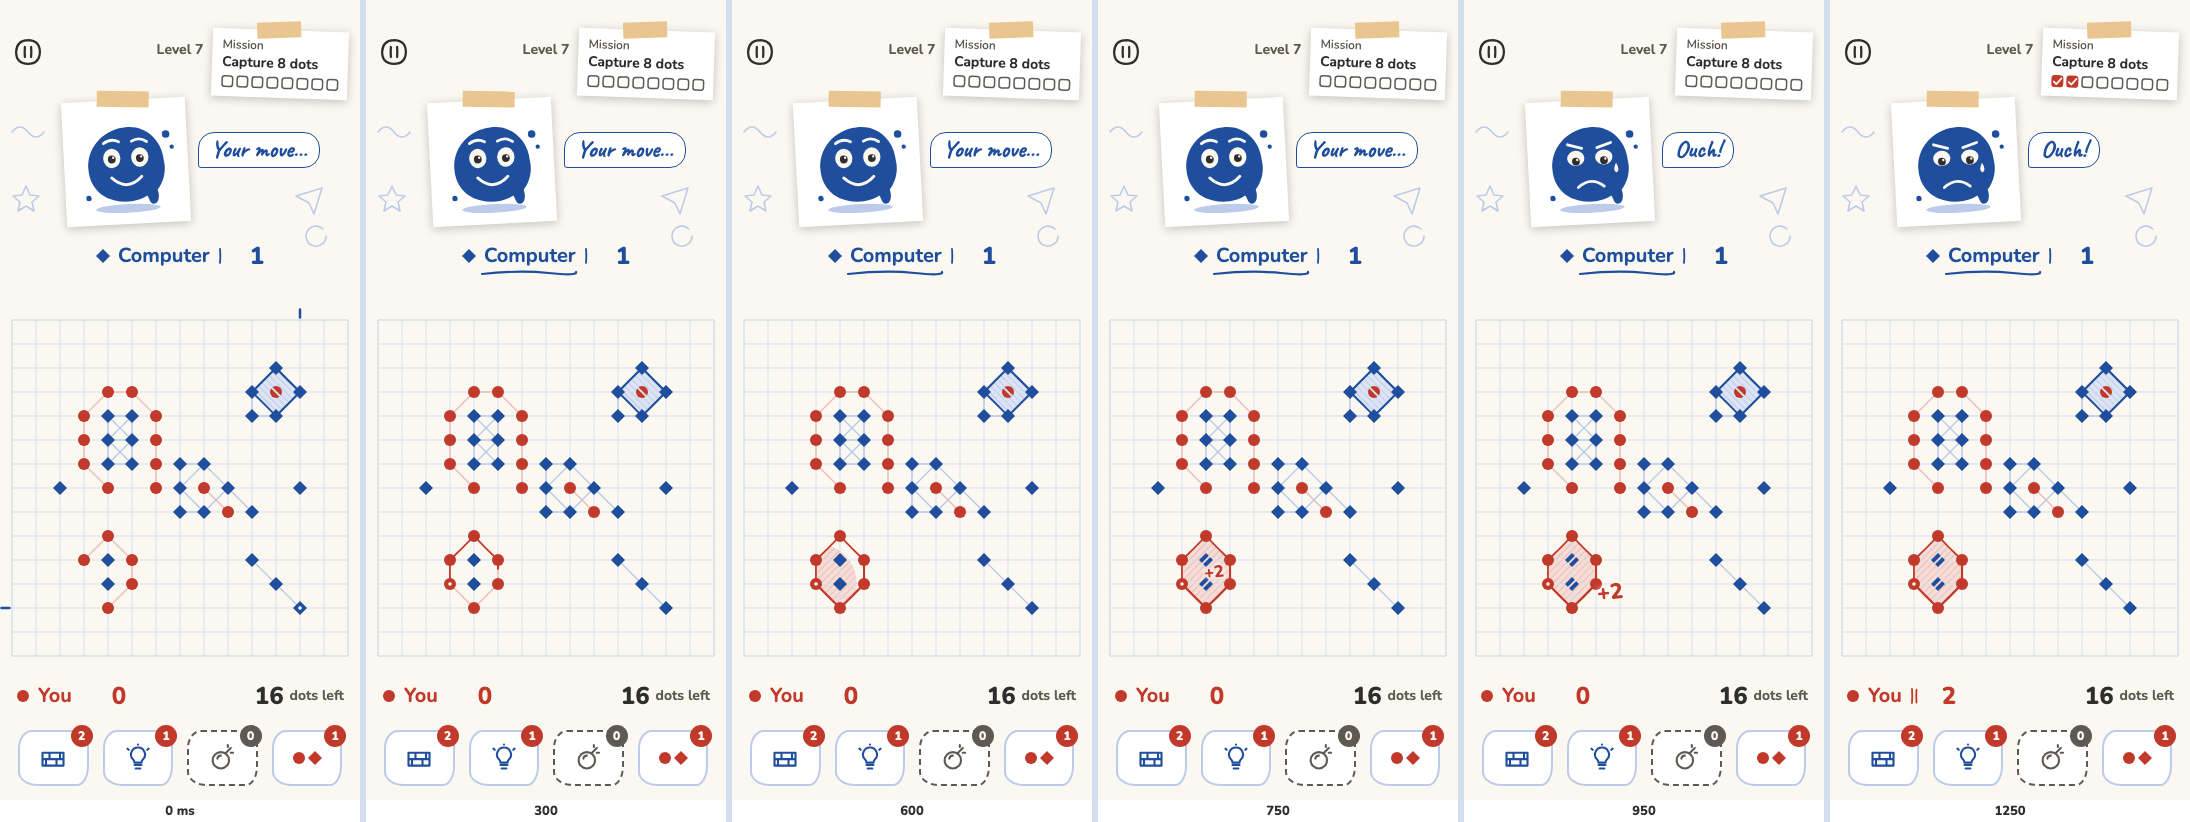
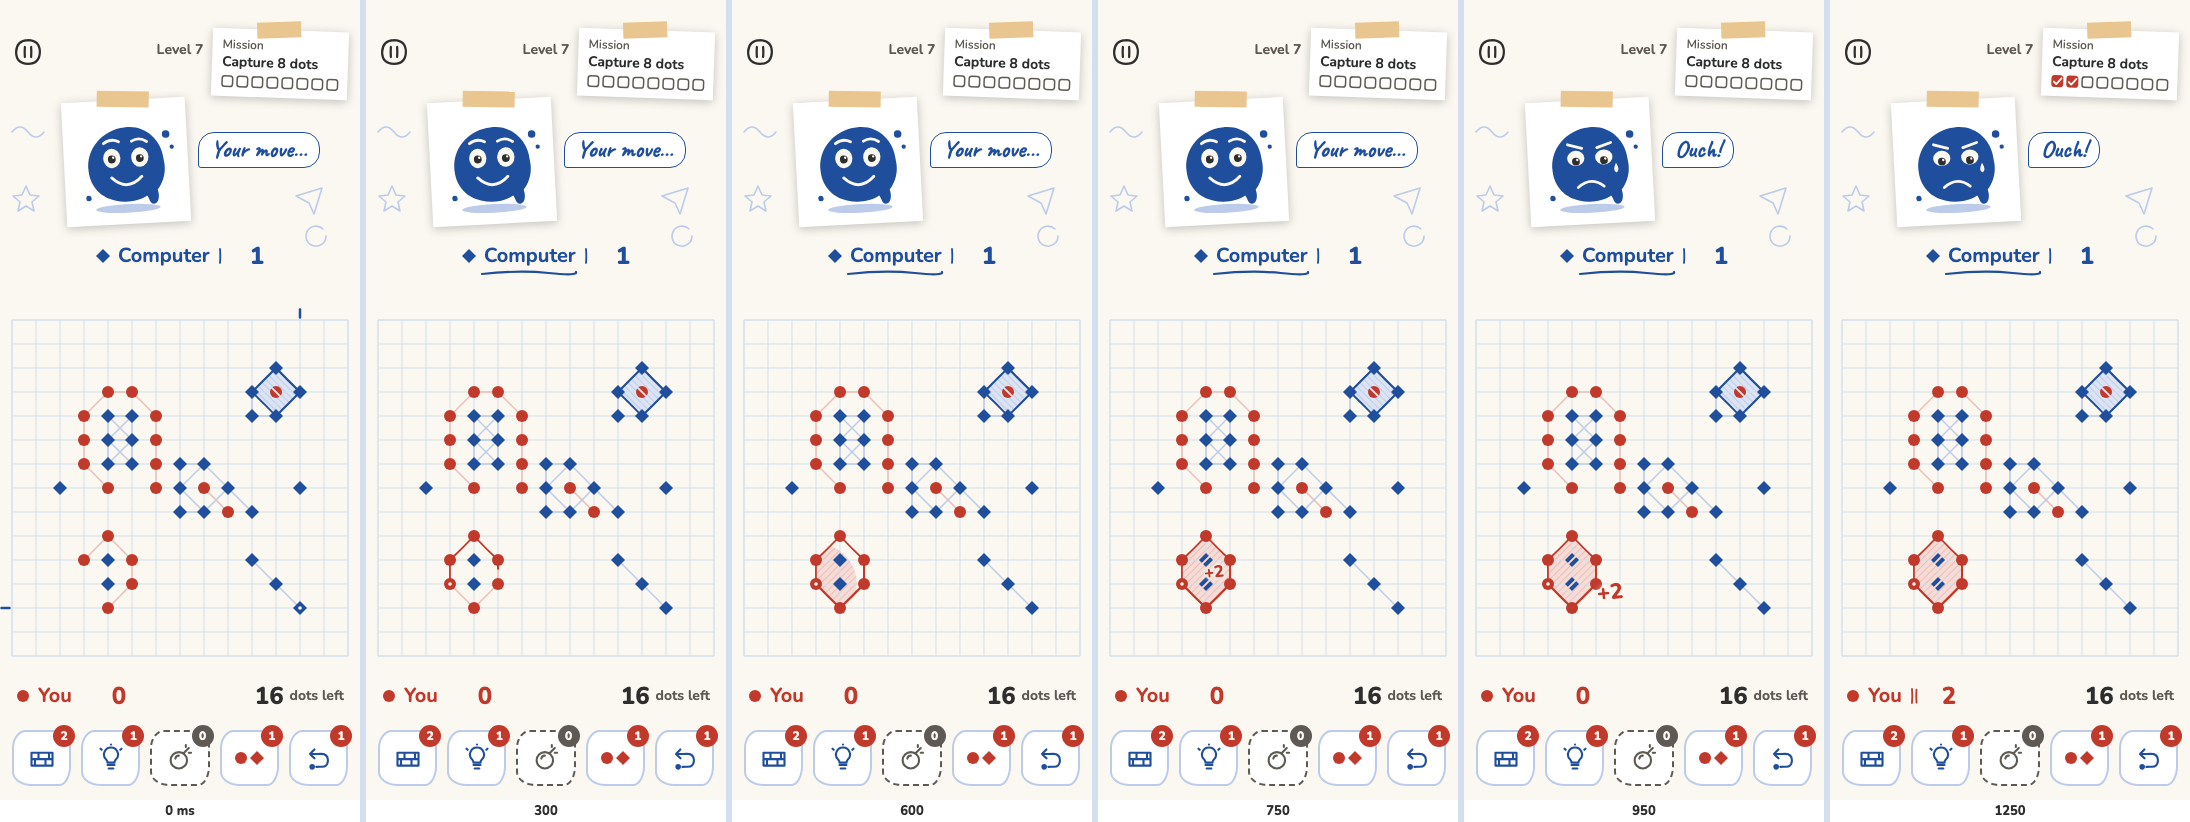
D-17 Undo in the motion storyboard (#203)
The motion mock-ups draw the canvas tool bar: five boosters, Undo last, with
the waiting look before the first move. The boosters scene and strip gain
Undo: the tap, the preview with the pale dots in dashed rings and the note,
Take back, then the turn rubbed out newest first as in motion.md's Undo table.
Every GIF and strip with a tool bar is rendered again, light and dark.

Changed region(s): [[0.0, 0.882, 1.0, 0.9732]]

diff --git a/docs/design/motion/draw.py b/docs/design/motion/draw.py
@@ -238,6 +238,19 @@ def board(t, st, uid):
                                      stroke=col, stroke_width=f(DOT / 6), fill="none"))
             if p == st.get("last") and s >= 0.999:
                 pieces.append(el("circle", cx=f(x), cy=f(y), r=f(DOT * 0.15), fill=t["paper"]))
+    for p, side, s in st.get("ghosts", []):
+        # Undo's preview: the piece in its pale colour inside a dashed Graphite ring; the rub-out shrinks both.
+        if s <= 0.01:
+            continue
+        x, y = c(p)
+        if side == "red":
+            pieces.append(el("circle", cx=f(x), cy=f(y), r=f(DOT / 2 * s), fill=t["red_pale"]))
+        else:
+            h = DOT * 7 / 12 * s
+            pieces.append(el("path", d=f"M{f(x)} {f(y - h)}L{f(x + h)} {f(y)}L{f(x)} {f(y + h)}L{f(x - h)} {f(y)}Z",
+                             fill=t["blue_pale"]))
+        pieces.append(el("circle", cx=f(x), cy=f(y), r=f(0.45 * SP * s), fill="none", stroke=t["graphite"],
+                         stroke_width=1.5, stroke_dasharray="3 3"))
     for p, side, k in st.get("closing", []):
         x, y = c(p)
         pieces.append(el("circle", cx=f(x), cy=f(y), r=f(SP / 6 * k), fill="none", stroke=t[side], stroke_width=1.5))
@@ -252,6 +265,8 @@ def board(t, st, uid):
         extra.append(wall(t, p, q1, q2, uid))
     for p, q in st.get("hints", []):
         extra.append(hint(t, p, q))
+    for p, shift, k in st.get("scrubs", []):
+        extra.append(scrub(t, p, shift, k))
     for p, side, q in st.get("sparkles", []):
         x, y = c(p)
         for k in range(4):
@@ -330,6 +345,24 @@ def wall(t, p, q1, q2, uid):
     return "".join(out)
 
 
+def scrub(t, p, shift, k):
+    """Undo's eraser: three short Graphite strokes across the point, slid by shift dp along their slant and
+    k of their full length."""
+    x, y = c(p)
+    a = math.radians(-30)
+    ux, uy = math.cos(a), math.sin(a)  # along the stroke
+    nx, ny = -uy, ux  # across the strokes
+    half = 8 * k
+    out = []
+    for j, off in enumerate((-4.5, 0, 4.5)):
+        sx = x + nx * off + ux * (shift + (1.5 if j == 1 else -1))
+        sy = y + ny * off + uy * (shift + (1.5 if j == 1 else -1))
+        if half > 0.2:
+            out.append(el("line", x1=f(sx - ux * half), y1=f(sy - uy * half), x2=f(sx + ux * half),
+                          y2=f(sy + uy * half), stroke=t["graphite"], stroke_width=2, stroke_linecap="round"))
+    return "".join(out)
+
+
 def hint(t, p, q):
     """The hint: the point circled twice in the player's ink, like the next level on the map."""
     x, y = c(p)
@@ -382,27 +415,28 @@ def left_block(t, ui):
             f'color: {col}">{n}</span><span style="{cd.LABEL}; color: {t["graphite"]}">{label}</span></div>')
 
 
-def toolbar(t, counts, pops=(1, 1, 1, 1), dy=0.0, tap=None):
-    tools = [("Wall", "wall"), ("Hint", "hint"), ("Bomb", "bomb"), ("Double dot", None)]
+def toolbar(t, counts, pops=(1, 1, 1, 1, 1), dy=0.0, tap=None, undo_ready=True):
+    """The canvas tool bar (cd.toolbar) with moving parts: five boosters, Undo last. Undo waits, grey on paper
+    with its count, until there is a turn to take back."""
     out = []
-    for i, ((name, ic), n) in enumerate(zip(tools, counts)):
-        ink = t["blue"] if n else t["graphite"]
+    for i, ((name, ic, _, _), n) in enumerate(zip(cd.BOOSTERS, counts)):
+        waiting = name == "Undo" and not undo_ready
+        ink = t["blue"] if n and not waiting else t["graphite"]
         border = f"2px solid {t['blue_pale']}" if n else f"2px dashed {t['graphite']}"
-        pic = (cd.icon(cd.ICONS[ic], ink, 28) if ic else
-               svg(30, 16, el("circle", cx=7, cy=8, r=6, fill=t["red"]) +
-                   el("path", d="M23 1 L30 8 L23 15 L16 8 Z", fill=t["red"]), view="0 0 30 16"))
+        pic = cd.booster_pic(t, ic, ink)
         badge = (f'<span style="position: absolute; right: -6px; top: -7px; min-width: 22px; height: 22px; '
                  f'border-radius: 11px; background: {t["red"] if n else t["graphite"]}; color: {t["paper"]}; '
                  f'font-size: 12px; font-weight: 800; display: flex; align-items: center; justify-content: center; '
                  f'transform: scale({f(pops[i])})">{n}</span>')
         ring = ""
         if tap and tap[0] == i:
-            ring = touch(28 + 0, 28, tap[1], t)
+            ring = touch(28, 28, tap[1], t)
         out.append(f'<div style="position: relative; height: 56px; box-sizing: border-box; border: {border}; '
-                   f'border-radius: 14px 18px 12px 20px / 18px 12px 20px 14px; background: {t["card"]}; '
+                   f'border-radius: 14px 18px 12px 20px / 18px 12px 20px 14px; '
+                   f'background: {t["paper"] if waiting else t["card"]}; '
                    f'display: flex; align-items: center; justify-content: center">{pic}{badge}{ring}</div>')
-    return (f'<div style="position: absolute; left: 18px; right: 18px; top: {f(730 + dy)}px; display: grid; '
-            f'grid-template-columns: repeat(4, minmax(0, 1fr)); gap: 14px">{"".join(out)}</div>')
+    return (f'<div style="position: absolute; left: 12px; right: 12px; top: {f(730 + dy)}px; display: grid; '
+            f'grid-template-columns: repeat(5, minmax(0, 1fr)); gap: 10px">{"".join(out)}</div>')
 
 
 def touch(x, y, q, t):
@@ -464,8 +498,8 @@ def screen(t, ui, uid):
                  f'align-items: center; justify-content: space-between">'
                  f'{side_row(t, "red", "You", ui.get("you", 0), turn[1] if turn[0] == "you" else 0, "flex-start", ui.get("you_pop", 1.0), chip)}'
                  f'{left_block(t, ui)}</div>')
-    parts.append(toolbar(t, ui.get("tools", (2, 1, 0, 1)), ui.get("tool_pops", (1, 1, 1, 1)), ui.get("tool_dy", 0),
-                         ui.get("tool_tap")))
+    parts.append(toolbar(t, ui.get("tools", TOOLS), ui.get("tool_pops", (1, 1, 1, 1, 1)), ui.get("tool_dy", 0),
+                         ui.get("tool_tap"), ui.get("undo_ready", True)))
     parts.extend(ui.get("over", []))
     return cd.root(t, "".join(parts))
 
@@ -486,8 +520,11 @@ def fading_edges(p, T, at):
     return [(p, "blue", 1 - q)] if q < 1 else []
 
 
+TOOLS = tuple(n for _, _, n, _ in cd.BOOSTERS)  # Wall 2, Hint 1, Bomb 0, Double dot 1, Undo 1, as on the canvas
+
+
 def base_threat_ui():
-    return dict(mood="smug", bubble="Your move…", you=2, opp=1, left=13, mission=2, tools=(2, 1, 0, 1))
+    return dict(mood="smug", bubble="Your move…", you=2, opp=1, left=13, mission=2, tools=TOOLS)
 
 
 def computer_lands(T, at, p, st, side="blue"):
@@ -788,32 +825,85 @@ def scene_running_out(theme, T, uid):
     return screen(t, ui, uid), cap
 
 
-BOOSTER_PARTS = [  # name, length of the effect (ms)
-    ("Wall", 400), ("Hint", 500), ("Bomb", 450), ("Double dot", 1350),
-]
 LEAD, HOLD = 500, 900
+UNDO_LEAD = 1800  # Undo shows its preview before Take back
+BOOSTER_PARTS = [  # name, time before Confirm (ms), length of the effect (ms)
+    ("Wall", LEAD, 400), ("Hint", LEAD, 500), ("Bomb", LEAD, 450), ("Double dot", LEAD, 1350),
+    ("Undo", UNDO_LEAD, 600),
+]
+
+# Undo takes back the turn of the threat: your dot (9, 8) and the computer's answer (7, 7), as on the
+# canvas frame "Game: Undo's preview". The turn before it ended on the computer's (12, 12).
+UNDO_YOU, UNDO_OPP, UNDO_BEFORE = (9, 8), (7, 7), (12, 12)
 
 
 def scene_boosters(theme, T, uid):
     t = THEMES[theme]
     start = 0
-    for i, (name, length) in enumerate(BOOSTER_PARTS):
-        total = LEAD + length + HOLD
+    for i, (name, lead, length) in enumerate(BOOSTER_PARTS):
+        total = lead + length + HOLD
         if T < start + total or i == len(BOOSTER_PARTS) - 1:
-            return booster_frame(t, i, name, T - start - LEAD, uid)
+            return booster_frame(t, i, name, T - start - lead, uid)
         start += total
 
 
+def take_back_tap(t, q):
+    """A tap on Take back, in the note over the player's line (the canvas undo_note)."""
+    return f'<div style="position: absolute; left: 0; top: 0">{touch(236, 744, q, t)}</div>'
+
+
+def undo_part(t, u, st, ui):
+    """Undo: the tap on its button, the preview, Take back, then the turn rubbed out newest first."""
+    over = []
+    if u < -1400:
+        ui["tool_tap"] = (4, (u + 1700) / 300) if u >= -1700 else None
+    previewing = u >= -1400
+    # The threat marks of the position; the preview takes away those the turn made (the pair's).
+    if not previewing:
+        st["threats"] = [(p, 1.0, 2, t["hi"]) for p in PAIR + CLUSTER]
+        st["closing"] = [((9, 9), "blue", 1.0), ((5, 7), "red", 1.0)]
+        return over
+    st["threats"] = [(p, 1.0, 2, t["hi"]) for p in CLUSTER]
+    st["closing"] = [((5, 7), "red", 1.0)]
+    st["red"] = [p for p in st["red"] if p != UNDO_YOU]
+    st["blue"] = [p for p in st["blue"] if p != UNDO_OPP]
+    st["edges"] = []
+    st["last"] = None
+    ui.update(mood="smug", bubble="Take it back?")
+    # The note slides up in 300 ms and down in 200 ms from Take back.
+    slide = prog(u, -1400, -1100) if u < 0 else 1 - prog(u, 0, 200, EASE_IN)
+    if slide > 0.01:
+        over.append(f'<div style="position: absolute; inset: 0; transform: translateY({f((1 - slide) * 150)}px)">'
+                    f'{cd.undo_note(t)}</div>')
+    if -400 <= u < -100:
+        over.append(take_back_tap(t, (u + 400) / 300))
+    # The rub-out: the computer's answer from 0, your dot from 200, each in 250 ms; the strokes go at 450.
+    ghosts, scrubs = [], []
+    for p, side, a in ((UNDO_OPP, "blue", 0), (UNDO_YOU, "red", 200)):
+        ghosts.append((p, side, 1 - prog(u, a, a + 250, EASE_IN)))
+        if u >= a:
+            k = prog(u, a, a + 50) * (1 - prog(u, 450, 600, EASE_OUT))
+            shift = 3 * math.sin(2 * math.pi * 3 * prog(u, a, a + 250, linear))
+            if k > 0.01:
+                scrubs.append((p, shift, k))
+    st["ghosts"], st["scrubs"] = ghosts, scrubs
+    if u >= 450:
+        ui.update(left=14, mood="happy", bubble="Your move…")
+        st["last"] = UNDO_BEFORE
+        ui["left_pop"] = bump(u, 450, 150, 1.3)
+    return over
+
+
 def booster_frame(t, i, name, u, uid):
-    counts = [2, 1, 1, 1]
+    counts = [2, 1, 1, 1, 1]
     st = position(TR, TB, [area_state(R1), area_state(B1)], last=(7, 7))
     st["scale"], st["grow"] = {}, {}
     ui = base_threat_ui()
-    pops = [1, 1, 1, 1]
+    pops = [1, 1, 1, 1, 1]
     if u >= 0:
         counts[i] -= 1
         pops[i] = bump(u, 0, 200, 1.35)
-    tap = (i, (u + 400) / 300) if -400 <= u < -100 else None
+    tap = (i, (u + 400) / 300) if -400 <= u < -100 and name != "Undo" else None
     p = (9, 9)
     turn = ("you", 1.0)
     over = []
@@ -864,7 +954,22 @@ def booster_frame(t, i, name, u, uid):
             ui["chip"] = ("×1", 1 - prog(u, 1200, 1350, EASE_IN))
             turn = ("opp", prog(u - 1200, 0, 200))
         ui["left"] = 13 - (u >= 600) - (u >= 1200)
-    ui.update(board=st, tools=tuple(counts), tool_pops=tuple(pops), tool_tap=tap, turn=turn, over=over)
+    ui.update(tool_tap=tap)
+    if name == "Undo":
+        over = undo_part(t, u, st, ui)
+    ui.update(board=st, tools=tuple(counts), tool_pops=tuple(pops), turn=turn, over=over)
+    if name == "Undo":
+        if u < -1400:
+            cap = ("Undo: chosen", "")
+        elif u < 0:
+            cap = ("Undo's preview, then Take back", "")
+        elif u < 200:
+            cap = ("Undo: the computer's answer rubbed out", f"+{u} ms")
+        elif u < 450:
+            cap = ("Undo: your dot rubbed out", f"+{u} ms")
+        else:
+            cap = ("Undo: the strokes go, 14 dots left", f"+{u} ms")
+        return screen(t, ui, uid), cap
     if u < 0:
         cap = (f"{name}: chosen, then Confirm", "")
     else:
@@ -1111,7 +1216,7 @@ SCENES = {  # name: (drawer, length in ms, crop x, y, w, h)
     "big-capture": (scene_big, 4800, FULL),
     "threat": (scene_threat, 6600, (0, 296, W, 380)),
     "running-out": (scene_running_out, 6000, FULL),
-    "boosters": (scene_boosters, sum(LEAD + n + HOLD for _, n in BOOSTER_PARTS), (0, 296, W, 494)),
+    "boosters": (scene_boosters, sum(lead + n + HOLD for _, lead, n in BOOSTER_PARTS), (0, 296, W, 494)),
     "end": (scene_end, 4300, FULL),
     "unlock": (scene_unlock, 3600, FULL),
 }
@@ -1147,10 +1252,11 @@ def booster_strip():
     rows = []
     start = 0
     times = {"Wall": (0, 100, 200, 300, 400), "Hint": (0, 125, 250, 375, 500), "Bomb": (0, 150, 220, 300, 450),
-             "Double dot": (0, 300, 600, 700, 1200, 1350)}
-    for name, length in BOOSTER_PARTS:
-        rows.append([(start + LEAD + u, f"{name} {u} ms" if u == 0 else str(u)) for u in times[name]])
-        start += LEAD + length + HOLD
+             "Double dot": (0, 300, 600, 700, 1200, 1350), "Undo": (-800, 0, 125, 300, 450, 600)}
+    for name, lead, length in BOOSTER_PARTS:
+        rows.append([(start + lead + u, f"{name} preview" if u < 0 else f"{name} {u} ms" if u == 0 else str(u))
+                     for u in times[name]])
+        start += lead + length + HOLD
     return rows
 
 

diff --git a/docs/design/motion.md b/docs/design/motion.md
@@ -219,9 +219,9 @@ Highlighter on paper is 4.48 in light and 9.02 in dark.
 booster's count drops at 0 ms and swells to 135% and back in 200 ms. At 0 left, the button turns
 dashed and grey.
 
-<img src="motion/strip-boosters.png" width="720" alt="Key frames of the four boosters: the wall drawn and hatched, the hint circled twice, the bomb removing four blue dots, the double dot placing two dots with sparkles">
+<img src="motion/strip-boosters.png" width="720" alt="Key frames of the five boosters: the wall drawn and hatched, the hint circled twice, the bomb removing four blue dots, the double dot placing two dots with sparkles, and Undo's preview with two pale dots in dashed rings, rubbed out by grey strokes, the computer's first">
 
-<img src="motion/boosters-light.gif" width="360" alt="Animation: Wall, Hint, Bomb and Double dot, one after another">
+<img src="motion/boosters-light.gif" width="360" alt="Animation: Wall, Hint, Bomb, Double dot and Undo, one after another, with the five boosters in the tool bar">
 
 [Same in the dark version](motion/boosters-dark.gif)
 
